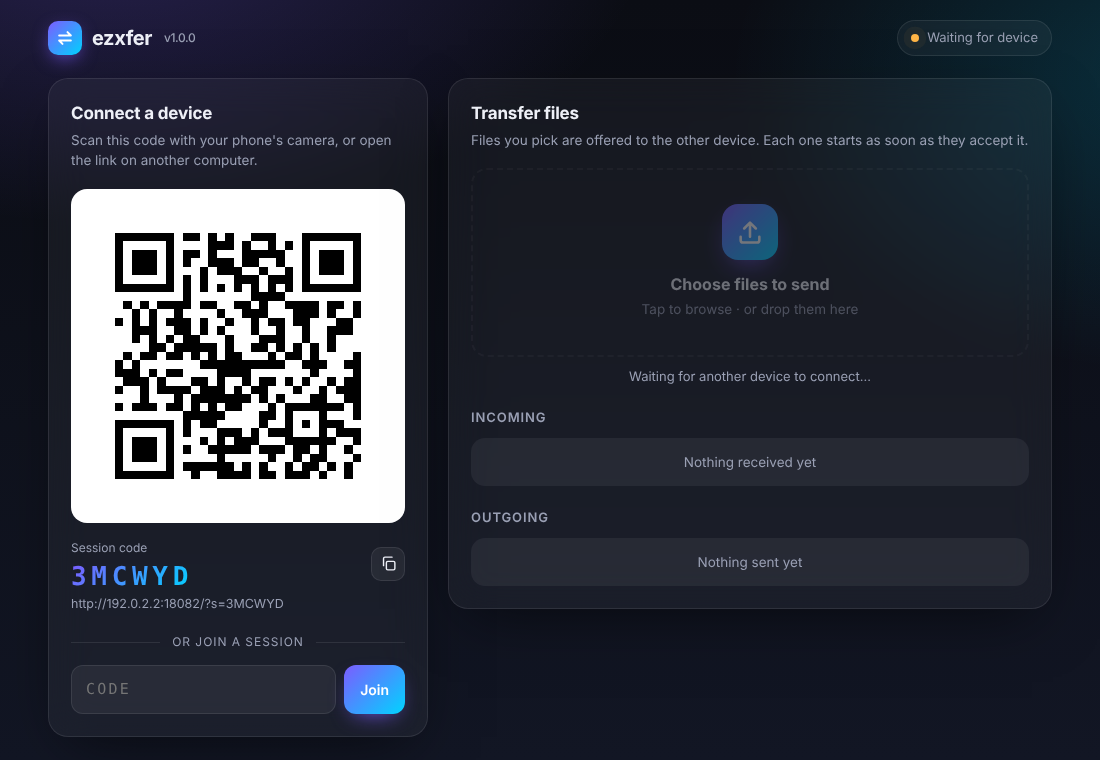
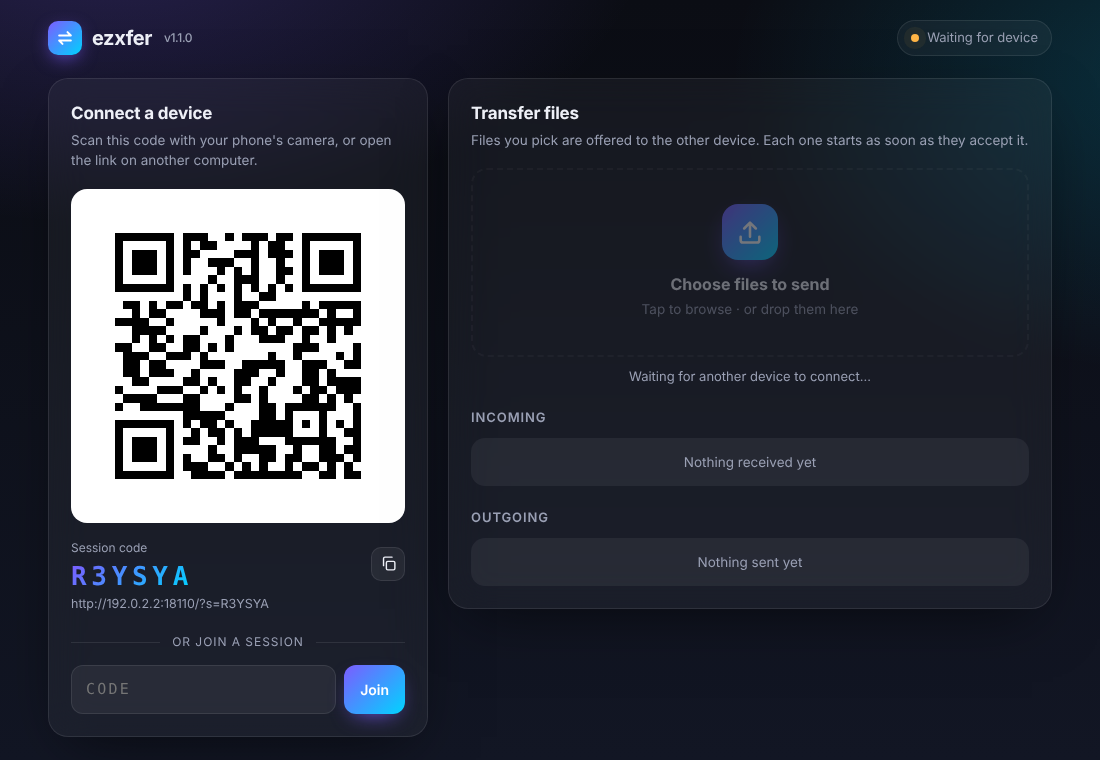
Show "Choosing files…" instead of a disconnect while a file picker is open
Phones usually lose the connection while their file picker is open,
which showed up on the other device as "Device disconnected" although
the user was only choosing files. Real disconnects (app backgrounded,
network gone) should still be reported.

- the page sends {"type":"picking","active":true} when its file input
  is clicked, and active:false when it changes, is cancelled, or (for
  browsers without the cancel event) focus comes back after the picker
  took it away
- the other device shows "Choosing files…" in its status pill; if the
  connection drops meanwhile it stays on the transfer screen without a
  disconnect message, and continues quietly when the device is back;
  after 2 minutes away it counts as disconnected
- any other connection loss is reported as before

README brought up to date: the picking behaviour, a short protocol
description, the full option list (incl. --help, {{BUILD}}), layout,
test coverage, and fresh screenshots (v1.1.0). --help mentions
{{BUILD}} too.

Tests: e2e opens the phone's file chooser, takes the phone offline and
closes its connection: the desktop shows "Choosing files…" and no
disconnect, then receives the chosen file; a drop without the picker
open is reported as a disconnect.

Claude-Session: https://claude.ai/code/session_01URcgCdJAyYmRgjDTgNeGL5

Changed region(s): [[0.0927, 0.3026, 0.34, 0.6355], [0.0618, 0.7263, 0.2473, 0.8171], [0.1545, 0.0303, 0.1855, 0.0605]]

diff --git a/web/index.html b/web/index.html
@@ -412,16 +412,30 @@ footer { text-align: center; color: var(--muted); font-size: 12px; margin-top: 2
         if (m.connected) {
           const id = String(m.id || '');
           const same = id !== '' && id === peerId;
+          const wasPicking = same && peerPicking;  // back from its file picker: nothing to report
+          setPeerPicking(false);
           if (!same) { failActive('The other device left'); peerId = id; peerInstance = ''; }
           setPeer(true);
           send({ type: 'info', name: deviceName(), instance: instanceId });
-          if (same) { resumeWithPeer(); toast('Device reconnected'); } else toast('Device connected');
+          if (same) { resumeWithPeer(); if (!wasPicking) toast('Device reconnected'); } else toast('Device connected');
         } else {
-          setPeer(false);
           pauseActive();
-          toast('Device disconnected — waiting for it to come back', true);
+          if (peerPicking) {
+            // Phones usually lose the connection while their file picker is open.
+            // That's not the device going away: keep the transfer screen and wait.
+            peerConnected = false;
+            setPill('wait', 'Choosing files…');
+            pickGrace = setTimeout(() => {
+              setPeerPicking(false); setPeer(false);
+              toast('Device disconnected — waiting for it to come back', true);
+            }, PICK_GRACE);
+          } else {
+            setPeer(false);
+            toast('Device disconnected — waiting for it to come back', true);
+          }
         }
         break;
+      case 'picking': setPeerPicking(!!m.active); break;
       case 'error':
         // Unknown, expired or full session: start a fresh one instead
         intentionalClose = true;
@@ -450,10 +464,21 @@ footer { text-align: center; color: var(--muted); font-size: 12px; margin-top: 2
     }
   }
 
+  // The other device has its file picker open (it says so when the picker opens
+  // and closes). A connection drop meanwhile is expected and not reported, unless
+  // the device stays away longer than PICK_GRACE.
+  const PICK_GRACE = 120000;
+  let peerPicking = false, pickGrace = null;
+  function setPeerPicking(on) {
+    peerPicking = on;
+    clearTimeout(pickGrace); pickGrace = null;
+    if (peerConnected) setPill('on', on ? 'Choosing files…' : 'Connected');
+  }
+
   function setPeer(on) {
     peerConnected = on;
     document.body.classList.toggle('connected', on);
-    if (on) setPill('on', 'Connected');
+    if (on) setPill('on', peerPicking ? 'Choosing files…' : 'Connected');
     else if (ws && ws.readyState === 1 && session) setPill('wait', 'Waiting for device');
     if (!on) $('peerName').textContent = 'Device';
     for (const t of outgoing.values()) if (t.state === 'offered') render(t);
@@ -873,7 +898,23 @@ footer { text-align: center; color: var(--muted); font-size: 12px; margin-top: 2
   }
 
   // ---------- UI wiring ----------
-  $('fileInput').addEventListener('change', (e) => { wakeUp(); offerFiles(Array.from(e.target.files || [])); e.target.value = ''; });
+  // Tell the other device while our file picker is open (see setPeerPicking).
+  let picking = false, pickerAway = false;
+  function setPicking(on) {
+    if (picking === on) return;
+    picking = on; pickerAway = false;
+    send({ type: 'picking', active: on });
+  }
+  $('fileInput').addEventListener('click', () => setPicking(true));
+  $('fileInput').addEventListener('cancel', () => setPicking(false));
+  $('fileInput').addEventListener('change', (e) => { setPicking(false); wakeUp(); offerFiles(Array.from(e.target.files || [])); e.target.value = ''; });
+  // Browsers without the "cancel" event: the picker takes focus away (or hides
+  // the page) and gives it back when closed, possibly without "change".
+  const pickerLeft = () => { if (picking) pickerAway = true; };
+  const pickerBack = () => { if (picking && pickerAway && !document.hidden) setTimeout(() => setPicking(false), 1000); };
+  window.addEventListener('blur', pickerLeft);
+  window.addEventListener('focus', pickerBack);
+  document.addEventListener('visibilitychange', () => (document.hidden ? pickerLeft() : pickerBack()));
   const drop = $('drop');
   ['dragenter', 'dragover'].forEach((ev) => window.addEventListener(ev, (e) => { e.preventDefault(); if (peerConnected) drop.classList.add('over'); }));
   ['dragleave', 'dragend'].forEach((ev) => window.addEventListener(ev, (e) => { if (!e.relatedTarget) drop.classList.remove('over'); }));

diff --git a/src/main.c b/src/main.c
@@ -19,7 +19,8 @@ static void usage(const char *prog)
             "  -u, --url URL      public base URL encoded in QR codes\n"
             "                     (default: http://<lan-ip>:<port>)\n"
             "  -w, --web FILE     serve FILE as the page template instead of the\n"
-            "                     built-in one ({{VERSION}} is substituted)\n"
+            "                     built-in one ({{VERSION}} and {{BUILD}} are\n"
+            "                     substituted)\n"
             "  -c, --cert FILE    serve HTTPS using this PEM certificate (chain);\n"
             "                     without it the server speaks plain HTTP\n"
             "  -k, --key FILE     PEM private key for --cert (default: read the\n"

diff --git a/README.md b/README.md
@@ -7,7 +7,7 @@ Open the page, scan the QR code, then pick files on either side.
 
 - a small HTTP/1.1 server and a WebSocket (RFC 6455) server, with its own SHA-1 and Base64
 - a QR code encoder (versions 1–40, all error-correction levels) that serves the code as SVG
-- the web app (`web/index.html`), compiled into the binary at build time
+- the web app (`web/index.html`) and its service worker (`web/sw.js`), compiled into the binary at build time
 
 | Desktop | Phone | Dark mode |
 |---|---|---|
@@ -31,7 +31,8 @@ Options:
   -u, --url URL      public base URL encoded in QR codes
                      (default: http://<lan-ip>:<port>)
   -w, --web FILE     serve FILE as the page template instead of the
-                     built-in one ({{VERSION}} is substituted)
+                     built-in one ({{VERSION}} and {{BUILD}} are
+                     substituted)
   -c, --cert FILE    serve HTTPS using this PEM certificate (chain);
                      without it the server speaks plain HTTP
   -k, --key FILE     PEM private key for --cert (default: read the
@@ -44,6 +45,7 @@ Options:
                      terminals that show gaps in the compact one
                      (e.g. macOS Terminal)
   -q, --quiet        no banner or logging
+  -h, --help         show this help
 ```
 
 Builds with gcc or clang on Linux and macOS.
@@ -103,8 +105,30 @@ Memory therefore stays bounded however large the file is.
   - Coming back to the page triggers a quick check with the server, and a connection that died silently is replaced within about 3 seconds. The page also checks every 15 seconds of silence.
   - Files picked while the connection is down are offered as soon as the other device is back.
   - The client id is kept per tab (`sessionStorage`). If the phone reloads the tab, the page gets its place in the session back instead of ending up in a new session.
+- **Choosing files** (on any device): the page tells the other device when its file picker opens and closes, and the other device's status shows **"Choosing files…"**. Phones often lose the connection while the picker is open. During that time a drop is expected, so it isn't reported as a disconnect, and the transfer screen stays up. When the phone is back, everything continues quietly. If it hasn't returned after 2 minutes, it counts as disconnected. A connection lost any other way, for example when the app goes to the background, is reported right away as "Device disconnected".
 - Reloading the page still starts its transfers over, because the browser can't keep the selected file or the partial download across a reload. Transfers in progress end with "The other device reloaded the page" instead of waiting forever.
 - When the server is upgraded, pages left open would reconnect and keep running the old code. The server therefore sends a build id, and a page that's older than the server reloads itself once.
+
+### Protocol
+
+The server only relays messages between the two devices of a session. Apart from the messages below, it doesn't look at their content.
+
+- **From the server:**
+  - `hello {session, url, version, build}`
+  - `peer {connected, id}`
+  - `error {code, message}` (`not_found`, `full`, `busy`)
+  - `pong`, the reply to the page's `ping` liveness check
+- **Between the devices** (JSON text):
+  - `info {name, instance}`
+  - `picking {active}`
+  - `offer {id, name, size, mime}`
+  - `accept {id, offset}`
+  - `decline {id}`
+  - `cancel {id, from}`
+  - `ack {id, bytes}`
+  - `eof {id}`
+  - `done {id}`
+- **File data:** binary messages, each made of a 12-byte header (`u32` transfer id, `u64` byte offset, big-endian) followed by up to 256 KB of the file.
 
 The join URL uses the address the page was opened with. If that was `localhost`, the server substitutes the machine's LAN IPv4 address. Use `--url` when running behind a reverse proxy or NAT.
 
@@ -123,10 +147,12 @@ src/server.c    poll() event loop, HTTP routes, sessions, WebSocket relay
 src/proto.c     HTTP request parser, query decoding, WebSocket framing
 src/tls.c       optional OpenSSL wrapper (stubs when built with TLS=0)
 src/sha1.c      SHA-1 + Base64 (WebSocket handshake)
-web/sw.js       service worker that streams received files into downloads
 src/qr.c        QR code encoder + SVG output
-web/index.html  the frontend (embedded via tools/embed.c, like sw.js)
+web/index.html  the page (HTML, CSS and JavaScript in one file)
+web/sw.js       service worker that streams received files into downloads
+tools/embed.c   turns the web files into C headers at build time
 tests/          unit, QR reference, integration and browser tests
+docs/           screenshots
 ```
 
 ## Tests
@@ -135,7 +161,7 @@ tests/          unit, QR reference, integration and browser tests
 make test-unit          # C unit tests under ASan/UBSan
 make test-qr            # QR output vs. python-qrcode, bit for bit, plus jsQR decoding
 make test-integration   # black-box HTTP/WebSocket tests (Python stdlib only)
-make test-e2e           # two real Chromium pages (desktop + emulated iPhone)
+make test-e2e           # real Chromium pages: desktop, emulated iPhone and Android phone
 make test-integration-tls test-e2e-tls   # the same two suites over HTTPS/WSS
 make test               # all of the above (TLS suites when built with TLS)
 ```
@@ -149,6 +175,8 @@ What is covered:
 - **Integration:**
   - routes and error statuses
   - session create/join/full/not-found, peer leave and rejoin
+  - client ids: a reconnecting device takes back its slot, a different one is refused; empty sessions wait for `--session-timeout`
+  - the server-side `ping`/`pong`, the build id, and Host headers that are ignored when implausible
   - relay of text, binary and fragmented messages; ping/pong; protocol violations
   - a 64 MB transfer with integrity check
   - backpressure: a stalled receiver throttles the sender and server memory stays flat
@@ -162,5 +190,10 @@ What is covered:
   - the page's QR code scans to the join URL, and an emulated iPhone joins with it
   - transfers in both directions, using both save paths, with byte-for-byte checks
   - empty files, several files at once, decline, cancel from either side
+  - streamed downloads to an Android phone through the service worker
+  - resuming after the receiver or the sender loses its connection mid-transfer
+  - "Choosing files…" while the picker is open, versus a real disconnect being reported
+  - files picked while disconnected, a silently dead connection being replaced, a phone reload (with and without a transfer running)
+  - the screen wake lock, and the hint where it's unsupported
   - disconnect and rejoin, joining by typed code, a third device being refused, a stale link
-  - reconnecting after a server restart, and the responsive layout
+  - a page left open across a server upgrade reloading itself, reconnecting after a server restart, and the responsive layout
